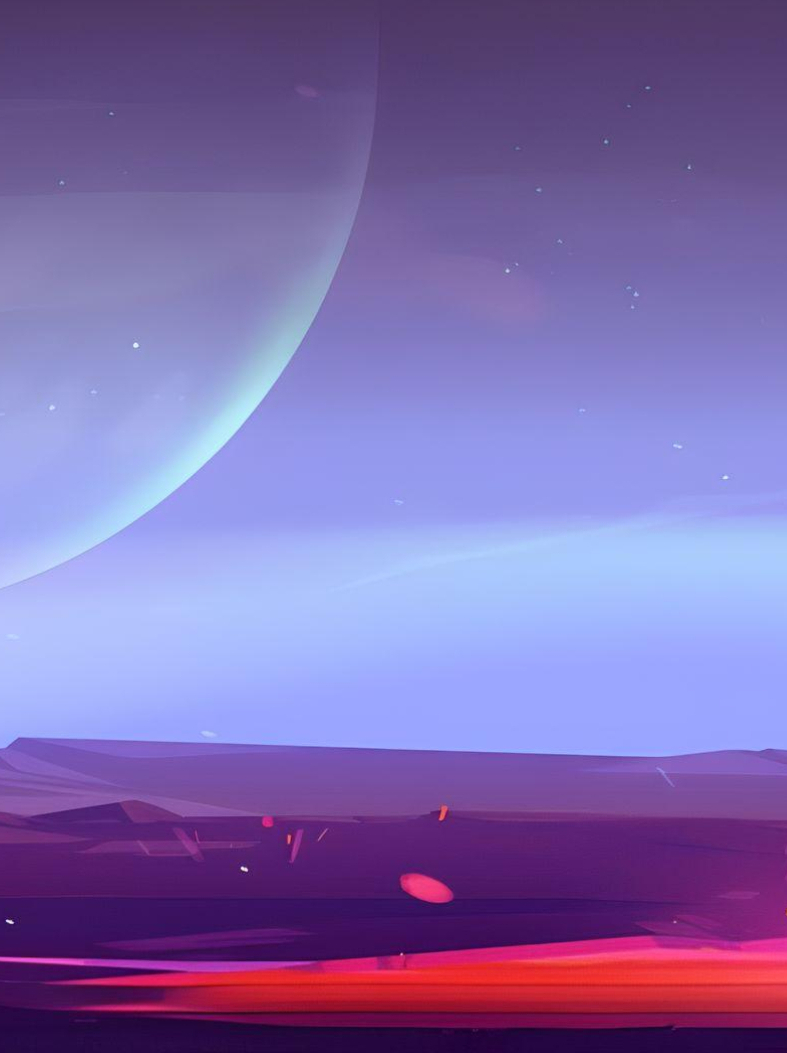
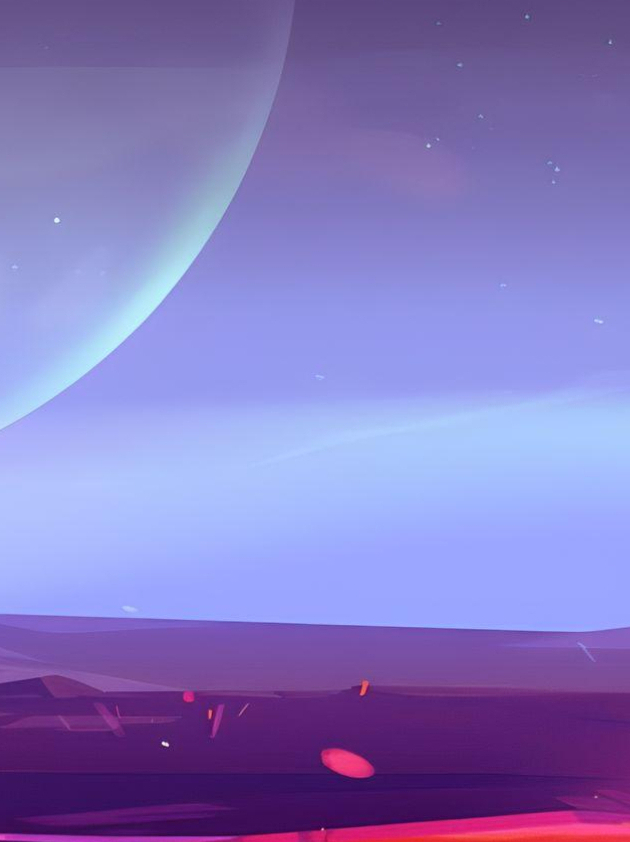
commit3

diff --git a/css/style.css b/css/style.css
@@ -5786,7 +5786,7 @@ body::-webkit-scrollbar-thumb {
     position: absolute;
     content: "";
     left: 0;
-    top: -50px;
+    top: 0;
     width: 100%;
     height: 100vh;
     background-image: url(../images/offer_bg-mob-fotor.jpg);
